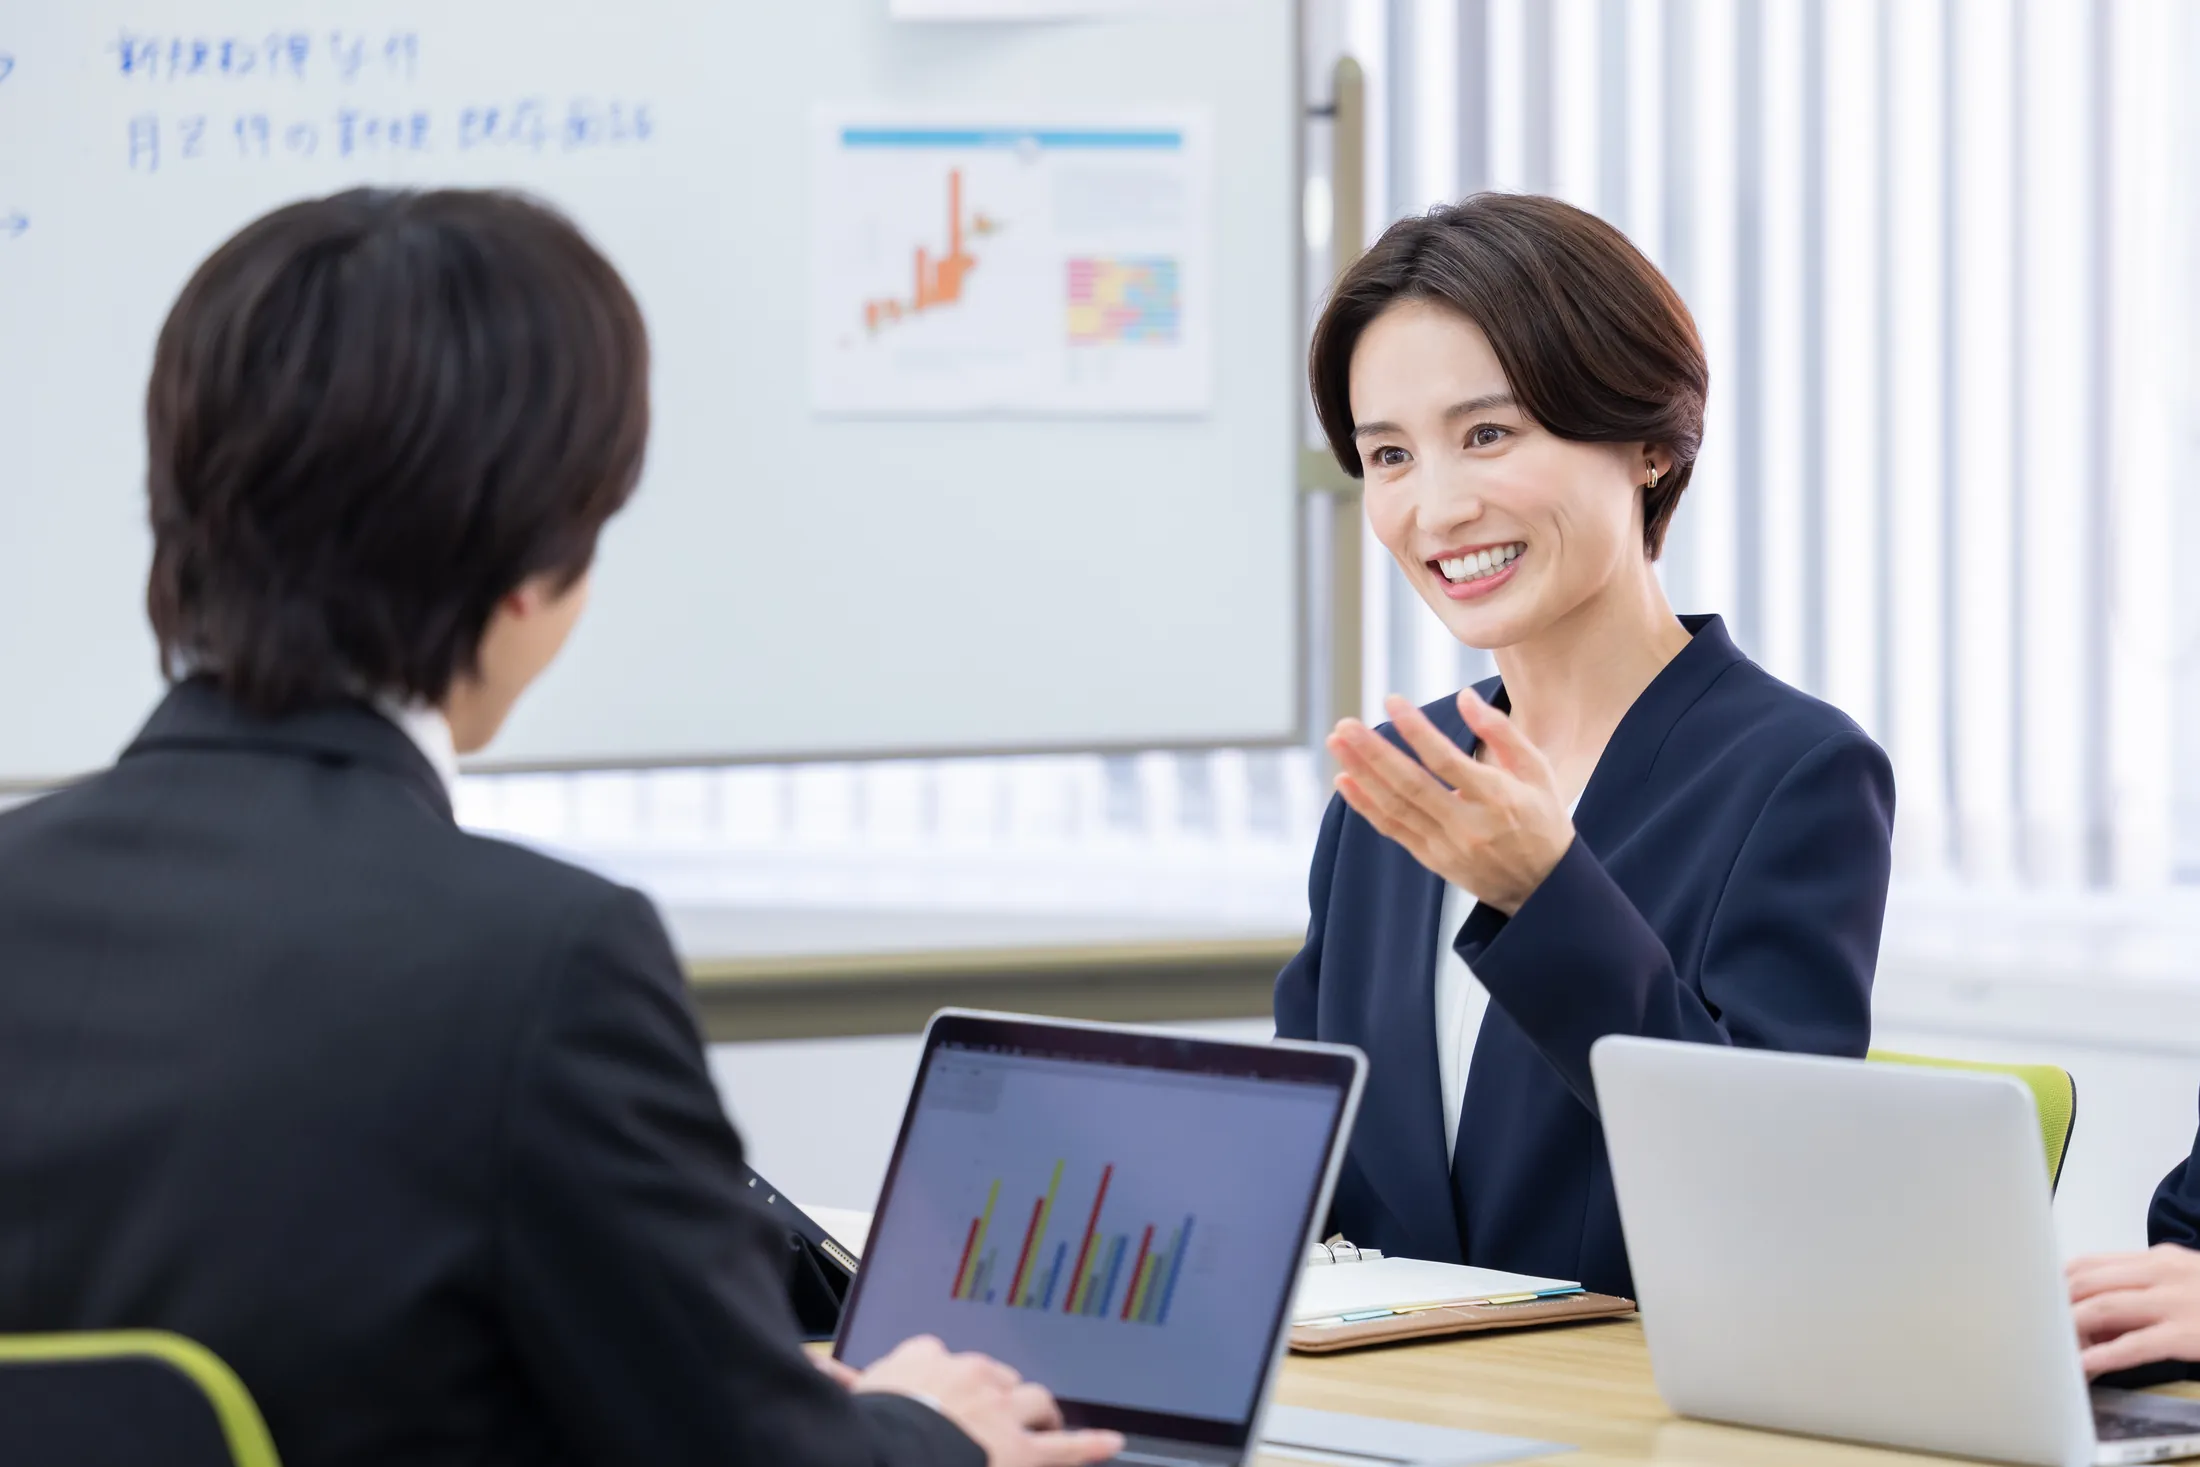
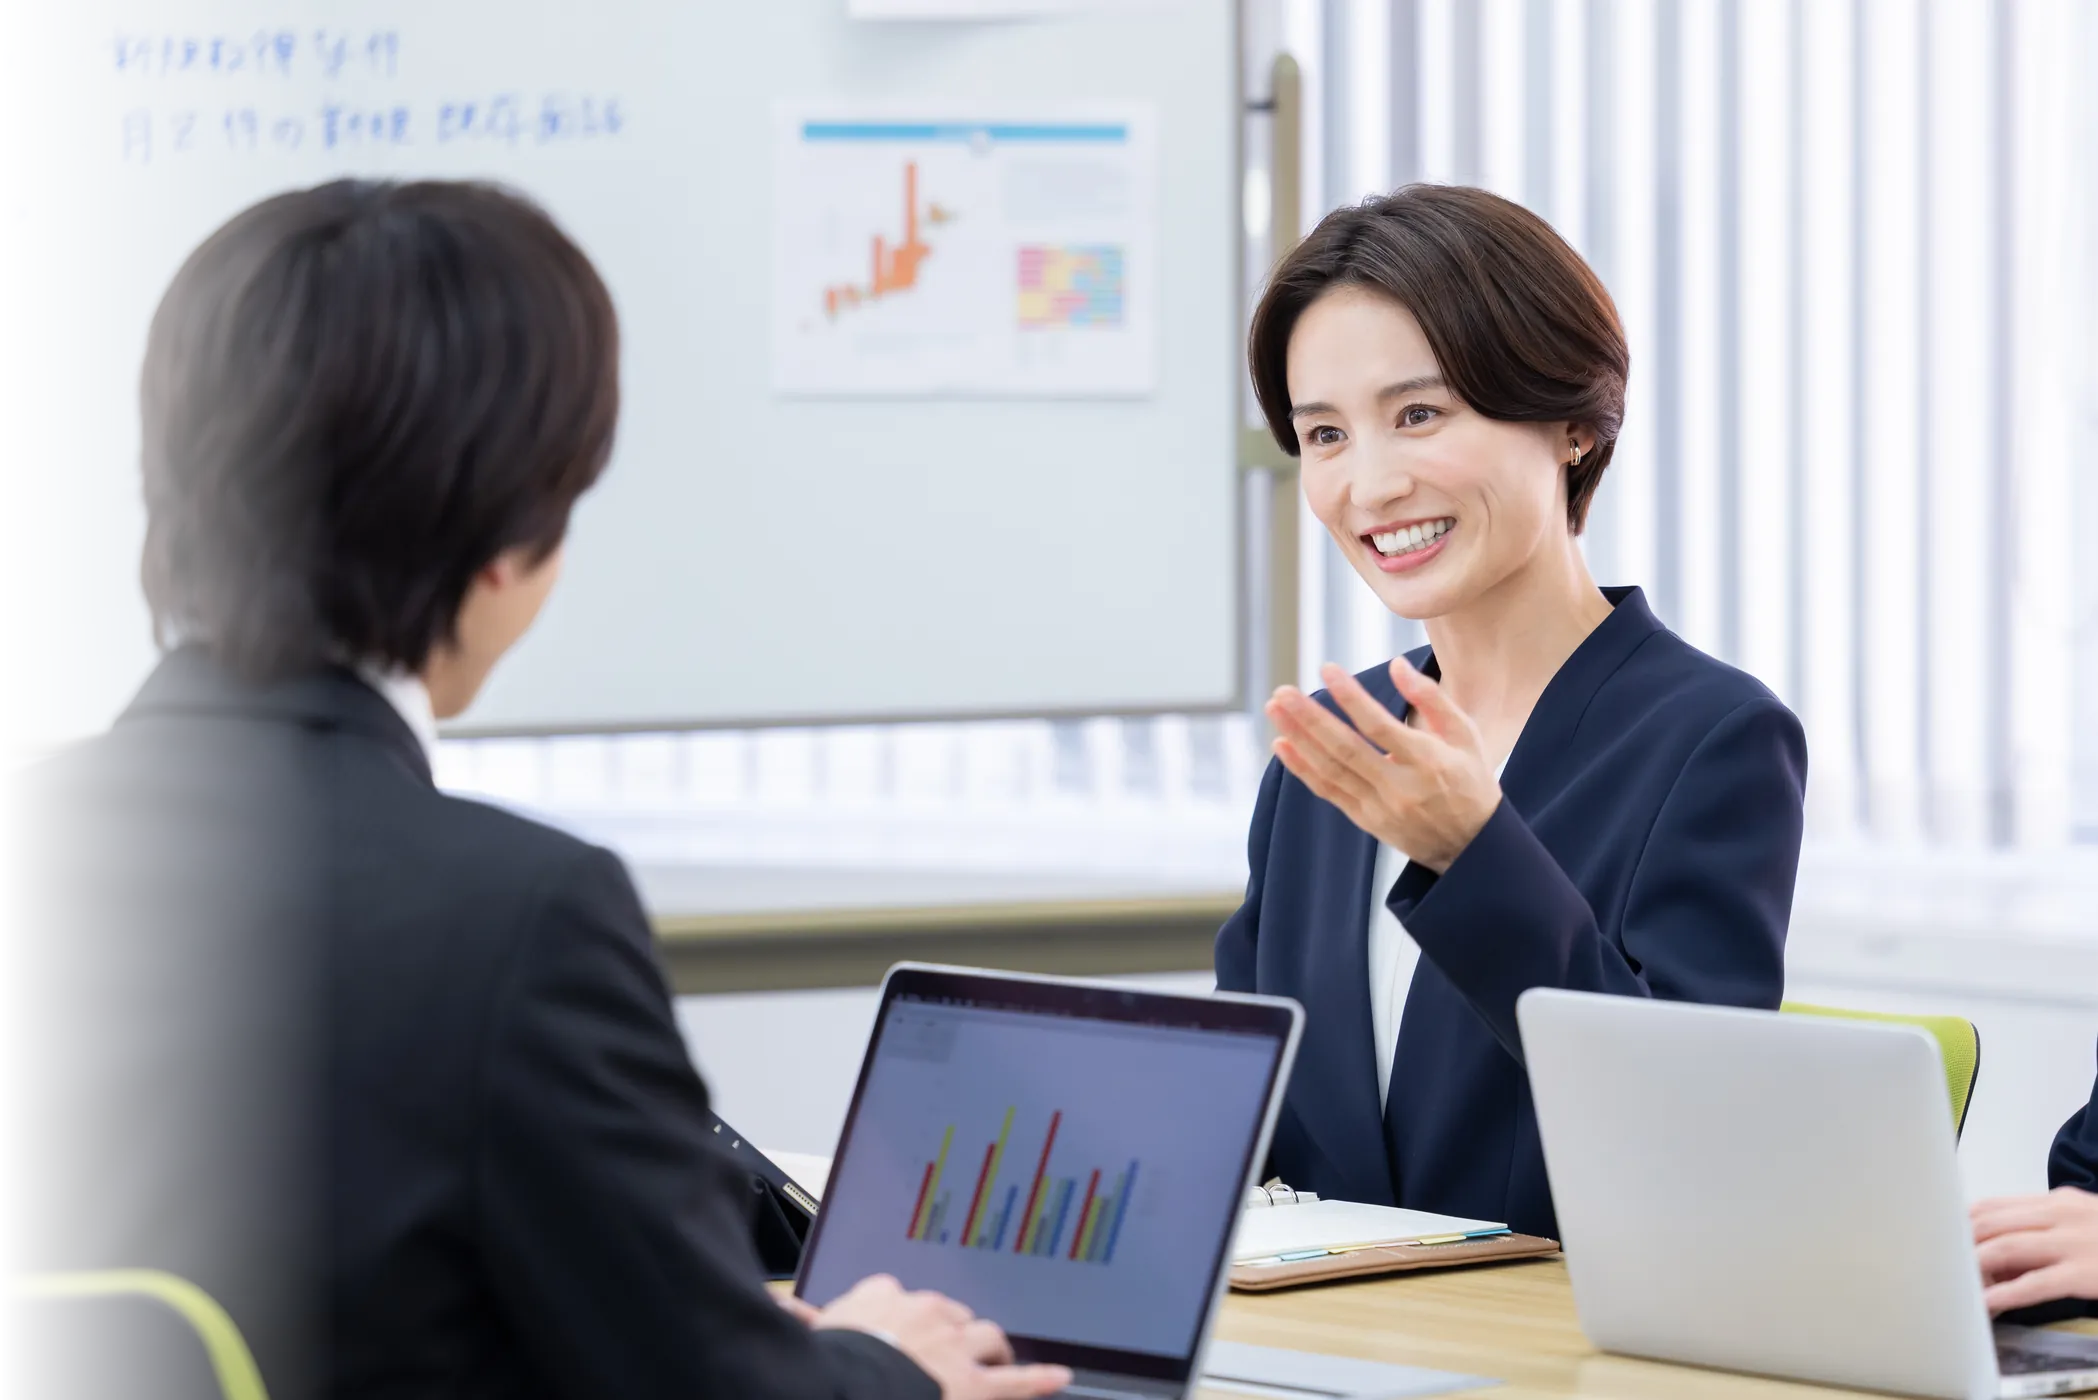
Reduce hero photo scale to soften subject presence
- Height-fit right-anchored display instead of cover crop
- Alpha fade on photo left edge blending into gradient panel
- Softer gradient stops and light-blue base color

Changed region(s): [[0.0, 0.0, 0.1549, 1.0]]

diff --git a/public/css/style.css b/public/css/style.css
@@ -346,8 +346,9 @@ a.btn-outline::after {
 
 .hero--cover {
   background:
-    linear-gradient(90deg, rgba(255, 255, 255, 0.97) 0%, rgba(255, 255, 255, 0.9) 38%, rgba(246, 249, 253, 0.55) 64%, rgba(246, 249, 253, 0.1) 100%),
-    url("/images/hero-photo.webp") right center / cover no-repeat;
+    linear-gradient(90deg, rgba(255, 255, 255, 0.97) 0%, rgba(255, 255, 255, 0.88) 38%, rgba(246, 249, 253, 0.4) 62%, rgba(246, 249, 253, 0.05) 100%),
+    url("/images/hero-photo.webp") right center / auto 100% no-repeat;
+  background-color: #f4f8fd;
   padding: 92px 0;
 }
 
